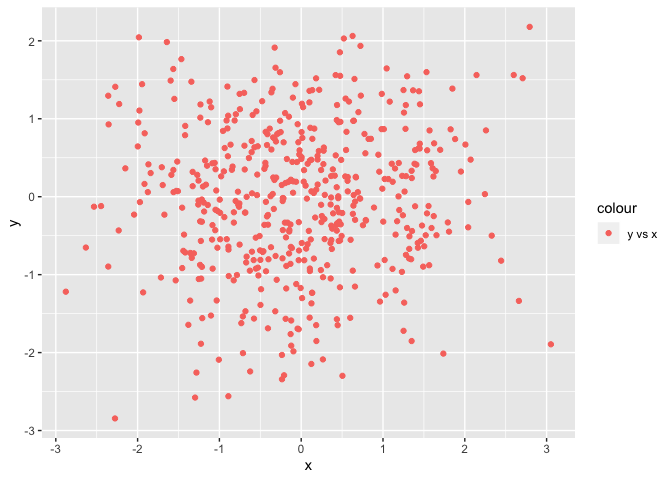
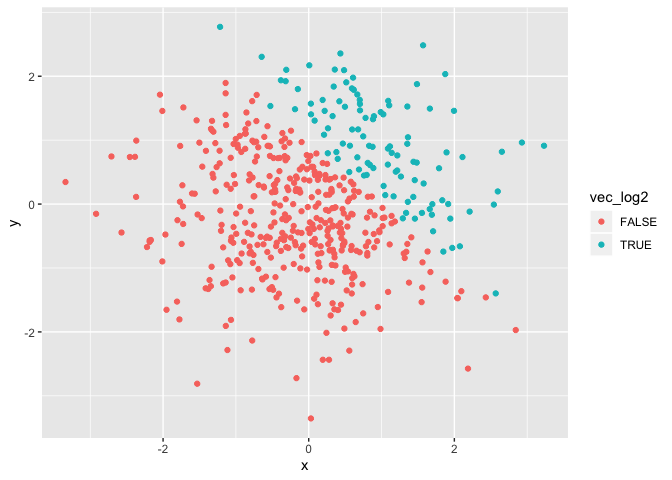
Make changes about the scatterplots and make comments on color scale.

diff --git a/p8105_hw1new_yl4358.md b/p8105_hw1new_yl4358.md
@@ -32,9 +32,9 @@ first_df = tibble(
 )
 ```
 
-  - The mean of the sample is 0.5883344.
+  - The mean of the sample is -0.2069771.
 
-  - The mean of vec\_log is 1.
+  - The mean of vec\_log is 0.5.
 
   - We can’t take the mean of character vector and factor vector.
 
@@ -66,16 +66,15 @@ second_df = tibble(
 
   - The dataset has 500 rows and 5 columns.
 
-  - The mean, median and standard deviation of x is -0.0447629,
-    -0.0618696 and 1.0592419.
+  - The mean, median and standard deviation of x is 0.0165534, 0.0656154
+    and 1.0294973.
 
-  - The proportion of cases for which x + y \> 1 is 0.22.
+  - The proportion of cases for which x + y \> 1 is 0.21.
 
-Here we make
-scatterplots\!
+Here we make scatterplots\!
 
 ``` r
-ggplot(second_df, aes(x = x, y = y, color = "y vs x")) + geom_point()
+ggplot(second_df, aes(x = x, y = y, color = vec_log2)) + geom_point()
 ```
 
 ![](p8105_hw1new_yl4358_files/figure-gfm/pb2_scatterplots-1.png)<!-- -->
@@ -87,13 +86,17 @@ ggsave("hw1new_plot1_yl4358.pdf")
     ## Saving 7 x 5 in image
 
 ``` r
-ggplot(second_df, aes(x = x, y = vec_num, color = "vec_num vs x")) + geom_point()
+ggplot(second_df, aes(x = x, y = y, color = vec_num)) + geom_point()
 ```
 
 ![](p8105_hw1new_yl4358_files/figure-gfm/pb2_scatterplots-2.png)<!-- -->
 
 ``` r
-ggplot(second_df, aes(x = x, y = vec_factor, color = "vec_factor vs x")) + geom_point()
+ggplot(second_df, aes(x = x, y = y, color = vec_factor)) + geom_point()
 ```
 
 ![](p8105_hw1new_yl4358_files/figure-gfm/pb2_scatterplots-3.png)<!-- -->
+
+  - The color scale of the first plots is numeric, as logical variables
+    and factor variables both use FALSE/TRUE for color scales while the
+    color scales of numeric variables are numeric.
